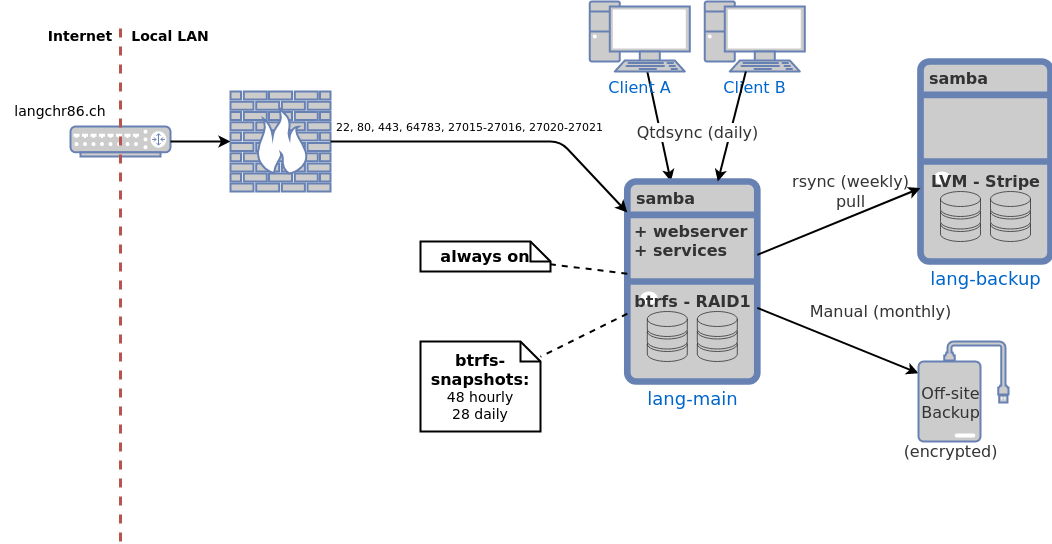
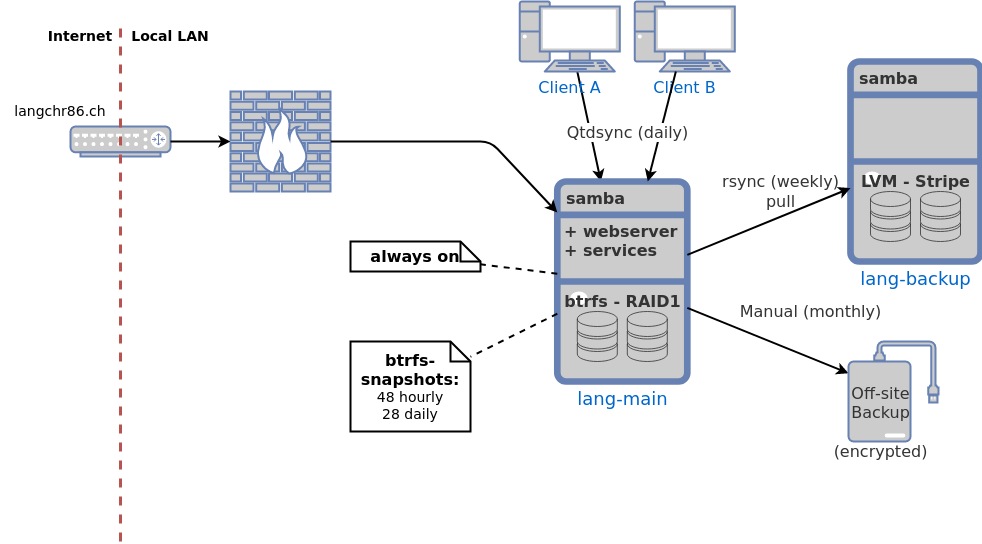
- remove port forwarding for port 80

diff --git a/docs/router.md b/docs/router.md
@@ -10,7 +10,6 @@ Ensure that the used listening ports are available from outside NAT to the corre
 | external port | internal port | protocol  | host          | service |
 | ------------- | ------------- |-----------| ------------- | ------- |
 | `23722`       | `22`          | tcp       | `lang-main`   | ssh |
-| `80`          |               | tcp       | `lang-main`   | http: caddy2 |
 | `443`         |               | tcp       | `lang-main`   | https: caddy2 |
 | `27015-27016` |               | tcp + udp | `lang-main`   | cs16server, csgoserver |
 | `27020-27021` |               | udp       | `lang-main`   | cs16server, csgoserver |
